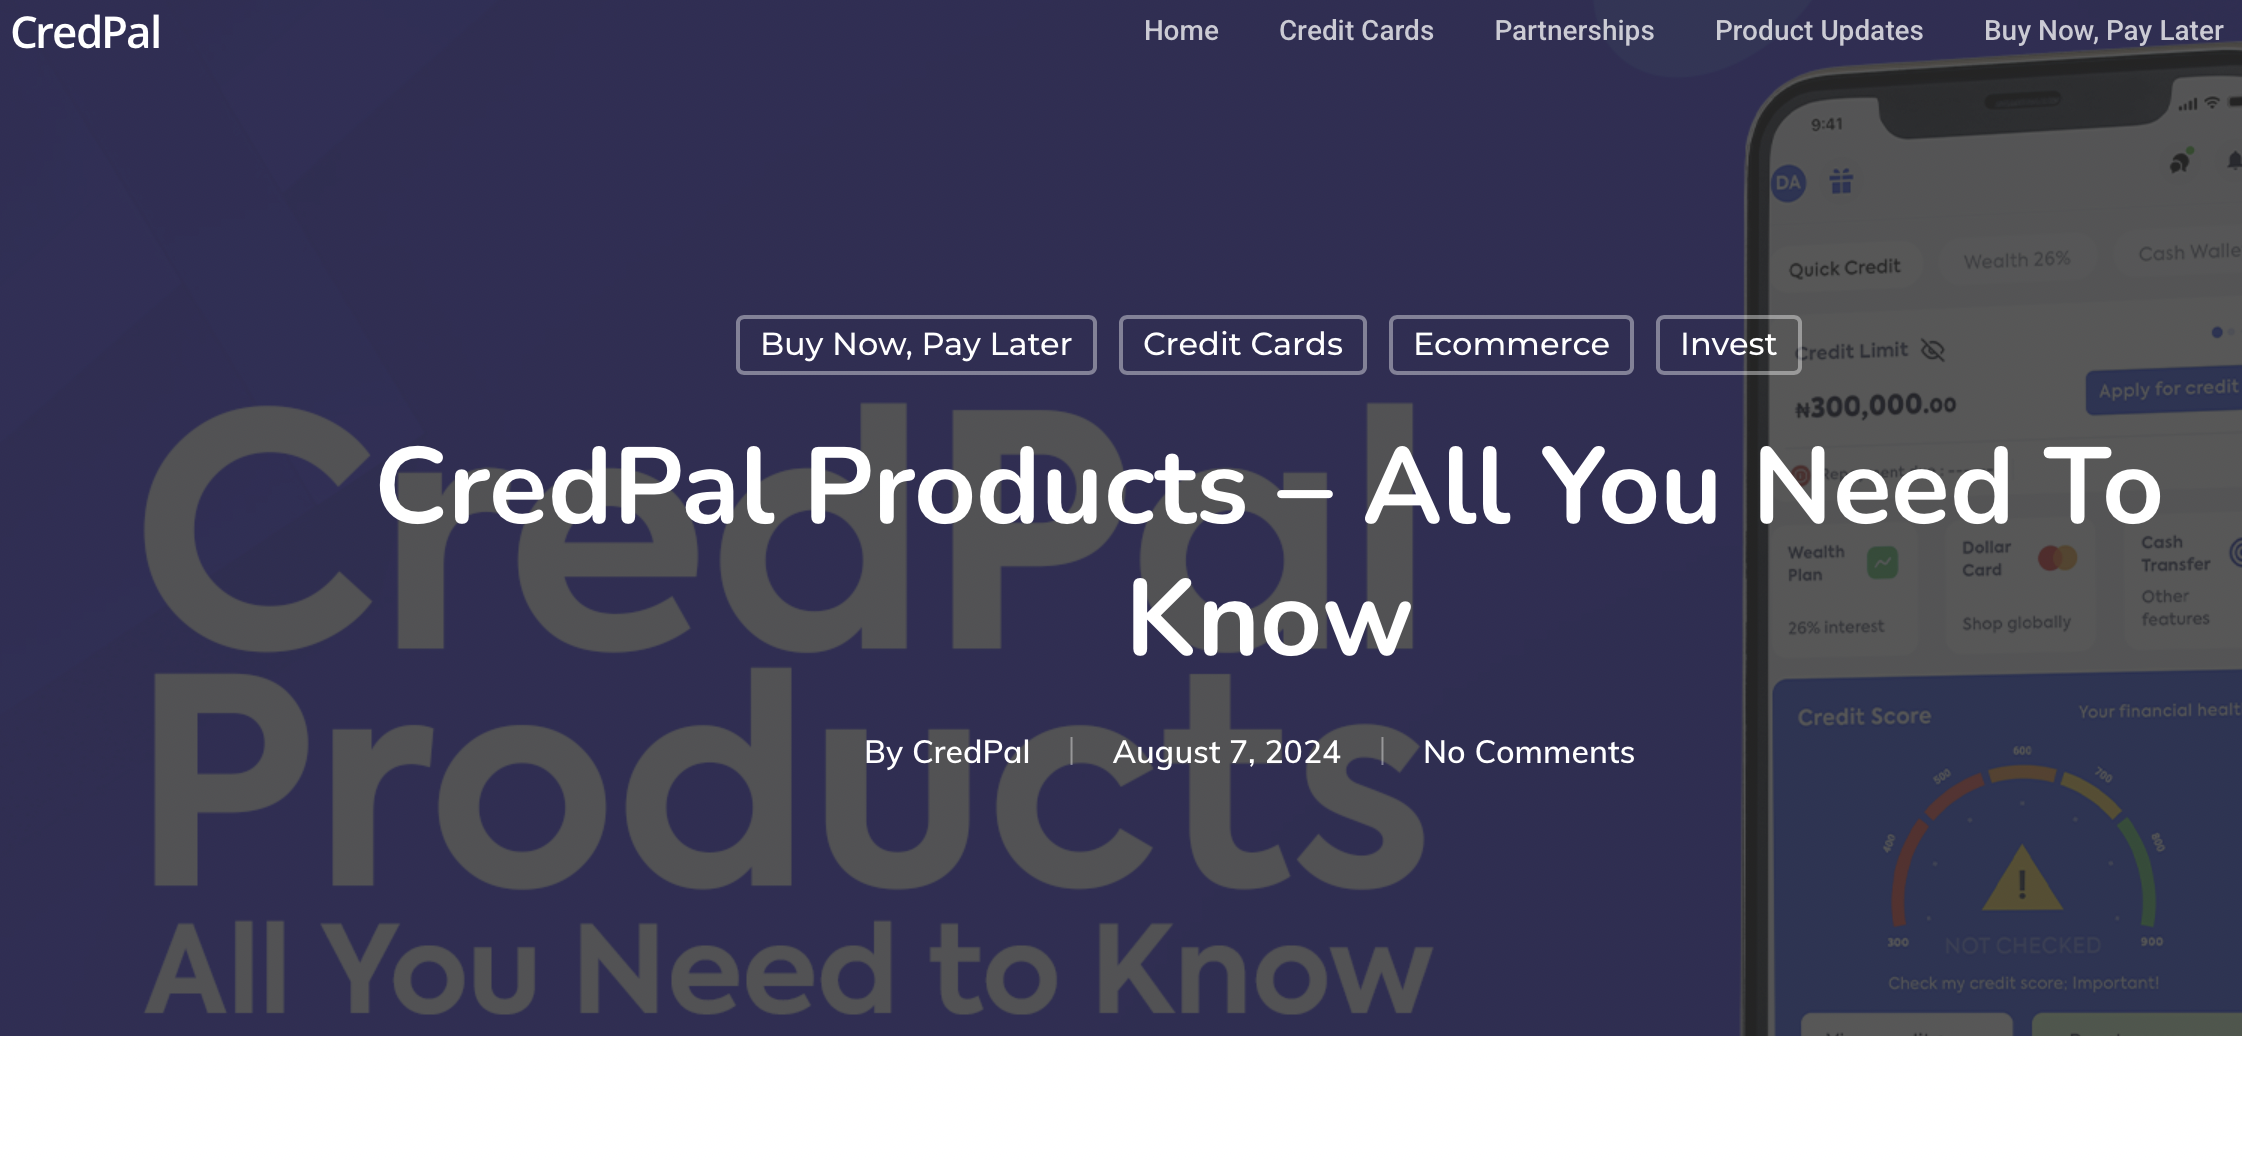
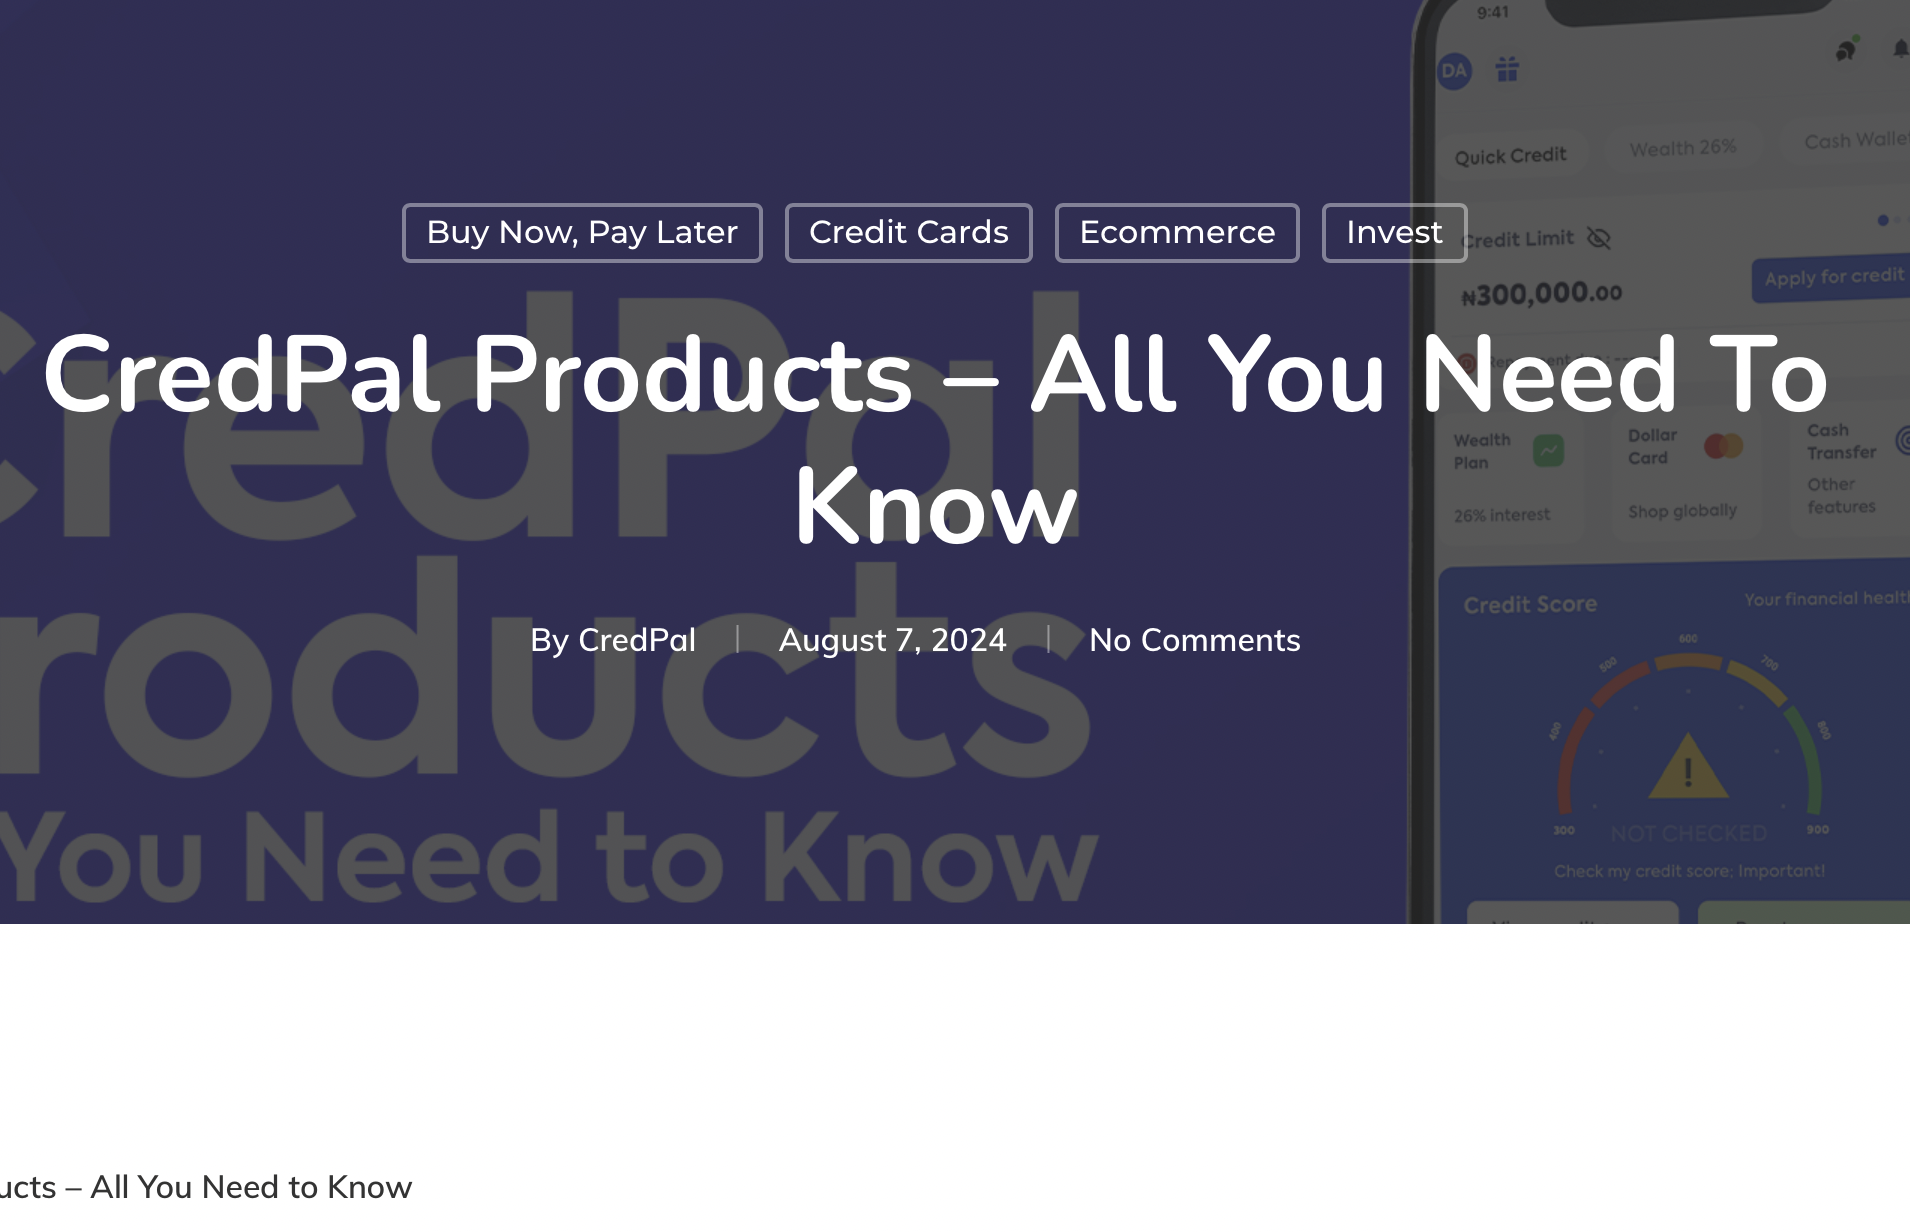
Fixed Padding

diff --git a/style.css b/style.css
@@ -8,7 +8,6 @@
   box-sizing: border-box;
 }
 
-/* Modern enhancements */
 body {
   font-family: 'Poppins', sans-serif;
   background: #fdf2f8;
@@ -35,41 +34,71 @@ html {
 
 /* Header/Hero Section */
 header {
-  min-height: 50vh;
+  min-height: 60vh;
   display: flex;
   align-items: center;
   justify-content: center;
   text-align: center;
   background: linear-gradient(135deg, #ec4899 0%, #f472b6 50%, #fbb6ce 100%);
   color: white;
+  position: relative;
+  overflow: hidden;
+}
+
+header::before {
+  content: '';
+  position: absolute;
+  top: -20%;
+  left: -20%;
+  width: 140%;
+  height: 140%;
+  background: radial-gradient(circle at center, rgba(255,255,255,0.1) 0%, transparent 70%);
+  z-index: 0;
+  animation: rotateBg 20s linear infinite;
+}
+
+@keyframes rotateBg {
+  0% { transform: rotate(0deg); }
+  100% { transform: rotate(360deg); }
+}
+
+.hero-content {
+  position: relative;
+  z-index: 1;
+  max-width: 900px;
+  padding: 0 20px;
 }
 
 .hero-content h1 {
-  font-size: 3.5rem;
+  font-size: 3rem;
   font-weight: 700;
   margin-bottom: 1rem;
-  text-shadow: 2px 2px 4px rgba(0,0,0,0.1);
+  text-shadow: 2px 2px 8px rgba(0,0,0,0.2);
+  font-family: 'Poppins', sans-serif;
 }
 
 .hero-content .subtitle {
   font-size: 1.3rem;
-  font-weight: 400;
+  font-weight: 500;
   margin-bottom: 1rem;
   opacity: 0.95;
 }
 
 .hero-content .tagline {
-  font-size: 1rem;
+  font-size: 1.1rem;
   margin-bottom: 2.5rem;
   opacity: 0.85;
   font-weight: 300;
+  max-width: 600px;
+  margin-left: auto;
+  margin-right: auto;
 }
 
 /* Social Links */
 .social-links {
   display: flex;
   justify-content: center;
-  gap: 1.2rem;
+  gap: 1.5rem;
   margin-bottom: 2.5rem;
 }
 
@@ -77,13 +106,13 @@ header {
   display: inline-flex;
   align-items: center;
   justify-content: center;
-  width: 45px;
-  height: 45px;
-  background: rgba(255, 255, 255, 0.2);
+  width: 50px;
+  height: 50px;
+  background: rgba(255, 255, 255, 0.15);
   border-radius: 50%;
   color: white;
   text-decoration: none;
-  font-size: 1.1rem;
+  font-size: 1.2rem;
   transition: all 0.3s ease;
   backdrop-filter: blur(10px);
 }
@@ -96,20 +125,20 @@ header {
 /* CTA Button */
 .cta-button {
   display: inline-block;
-  padding: 14px 30px;
+  padding: 16px 36px;
   background: white;
   color: #ec4899;
   text-decoration: none;
-  border-radius: 25px;
+  border-radius: 30px;
   font-weight: 600;
-  font-size: 1rem;
+  font-size: 1.1rem;
   transition: all 0.3s ease;
-  box-shadow: 0 4px 15px rgba(0,0,0,0.1);
+  box-shadow: 0 6px 20px rgba(0,0,0,0.1);
 }
 
 .cta-button:hover {
   transform: translateY(-2px);
-  box-shadow: 0 6px 20px rgba(0,0,0,0.15);
+  box-shadow: 0 8px 25px rgba(0,0,0,0.15);
 }
 
 /* Sections */
@@ -127,10 +156,9 @@ section {
   color: #ec4899;
   margin-bottom: 0.5rem;
   font-weight: 600;
-  align-items: center;
 }
 
-/* Skills Section - Stacked Layout */
+/* Skills Section */
 .skills-grid {
   display: flex;
   flex-direction: column;
@@ -142,13 +170,12 @@ section {
 .skill-card {
   background: white;
   border-radius: 25px;
-  padding: 3rem; /* bigger padding */
+  padding: 3rem;
   text-align: center;
   box-shadow: 0 12px 35px rgba(236, 72, 153, 0.12);
   transition: all 0.3s ease;
   border: 1px solid rgba(236, 72, 153, 0.15);
-  max-width: 100%; /* keep centered */
-  margin: 0 auto;   /* center in page */
+  width: 100%;
 }
 
 .skill-card:hover {
@@ -158,8 +185,7 @@ section {
 
 .skill-image {
   width: 100%;
-  /* max-width: 600px; */
-  height: 100%;
+  height: auto;
   margin: 0 auto 2rem;
   border-radius: 15px;
   overflow: hidden;
@@ -203,25 +229,10 @@ section {
 .skill-card p {
   color: #666;
   font-size: 1rem;
-  line-height: 1.;
-  max-width: 900px;
-  margin: 0 auto;
-}
-
-.skill-card h3 {
-  font-size: 1.2rem;
-  color: #333;
-  margin-bottom: 0.8rem;
-  font-weight: 600;
-}
-
-.skill-card p {
-  color: #666;
-  font-size: 0.9rem;
   line-height: 1.5;
 }
 
-/* Work Section - Stacked Layout */
+/* Work Section */
 .work-grid {
   display: flex;
   flex-direction: column;
@@ -231,12 +242,13 @@ section {
 }
 
 .work-card {
-  background: white;
-  border-radius: 20px;
-  overflow: hidden;
-  box-shadow: 0 10px 30px rgba(236, 72, 153, 0.1);
+   background: white;
+  border-radius: 25px;
+  padding: 3rem;
+  text-align: center;
+  box-shadow: 0 12px 35px rgba(236, 72, 153, 0.12);
   transition: all 0.3s ease;
-  border: 1px solid rgba(236, 72, 153, 0.1);
+  border: 1px solid rgba(236, 72, 153, 0.15);
   width: 100%;
 }
 
@@ -250,8 +262,9 @@ section {
   height: 350px;
   overflow: hidden;
   object-position: center;
-}
+    border-radius: 25px;
 
+}
 
 .work-screenshot {
   width: 100%;
@@ -284,7 +297,6 @@ section {
   max-width: 600px;
   margin-left: auto;
   margin-right: auto;
-  margin-bottom: 1.5rem;
 }
 
 .work-tools {
@@ -294,37 +306,17 @@ section {
   justify-content: center;
 }
 
-.work-info h4 {
-  font-size: 1.2rem;
-  color: #333;
-  margin-bottom: 0.6rem;
-  font-weight: 600;
-}
-
-.work-info p {
-  color: #666;
-  font-size: 0.9rem;
-  line-height: 1.5;
-  margin-bottom: 1rem;
-}
-
-.work-tools {
-  display: flex;
-  flex-wrap: wrap;
-  gap: 0.4rem;
-}
-
 /* Horizontal scroll for social media images */
 .horizontal-scroll {
   display: flex;
   gap: 2rem;
   overflow-x: auto;
-  white-space: nowrap; /* keeps items in one line */
+  white-space: nowrap;
   padding: 1rem 0.3rem;
   scroll-snap-type: x mandatory;
   scrollbar-width: thin; 
   min-height: 300px;
-  margin-top: 2rem
+  margin-top: 2rem;
 }
 
 .horizontal-scroll::-webkit-scrollbar {
@@ -337,12 +329,12 @@ section {
 }
 
 .horizontal-scroll img {
-  height: 300px;          /* fix height */
-  width: auto;            /* keep natural width */
+  height: 300px;
+  width: auto;
   border-radius: 15px;
-  display: inline-block;  /* line up horizontally */
+  display: inline-block;
   scroll-snap-align: start;
-  object-fit: cover;      /* keeps proportions */
+  object-fit: cover;
   flex-shrink: 0;
   box-shadow: 0 4px 12px rgba(236, 72, 153, 0.2);
   transition: transform 0.3s ease;
@@ -350,7 +342,7 @@ section {
 
 .horizontal-scroll img:hover {
   transform: scale(1.1);
-  z-index: 10;           /* ensures it appears above neighboring images */
+  z-index: 10;
 }
 
 .tool-tag {
@@ -362,7 +354,7 @@ section {
   font-weight: 500;
 }
 
-/* Tools Section - Simplified */
+/* Tools Section */
 .tools-container {
   background: white;
   border-radius: 20px;
@@ -373,7 +365,7 @@ section {
 
 .tools-grid {
   display: grid;
-  grid-template-columns: repeat(auto-fit, minmax(200px, 1fr));
+  grid-template-columns: repeat(auto-fit, minmax(180px, 1fr));
   gap: 1.5rem;
   max-width: 600px;
   margin: 0 auto;
@@ -382,15 +374,14 @@ section {
 .tool-item {
   background: linear-gradient(135deg, #ec4899, #f472b6);
   color: white;
-  padding: 2.5rem 2rem;
+  padding: 2rem;
   border-radius: 18px;
   text-align: center;
   font-weight: 600;
-  font-size: 1.2rem;
+  font-size: 1.1rem;
   transition: all 0.3s ease;
   box-shadow: 0 8px 25px rgba(236, 72, 153, 0.2);
 }
-
 
 .tool-item:hover {
   transform: translateY(-5px);
@@ -402,8 +393,7 @@ footer {
   background: linear-gradient(135deg, #ec4899, #f472b6);
   color: white;
   text-align: center;
-  padding: 2.5rem 0;
-  margin-top: 2rem;
+  padding: 3rem 0;
 }
 
 .footer-content {
@@ -433,6 +423,7 @@ footer {
 .footer-text {
   font-size: 0.9rem;
   opacity: 0.8;
+  margin-top: 1rem;
 }
 
 /* Responsive Design */
@@ -465,5 +456,9 @@ footer {
   
   .tools-container {
     padding: 2rem;
+  }
+  
+  .horizontal-scroll img {
+    height: 200px;
   }
 }

diff --git a/index.html b/index.html
@@ -189,7 +189,7 @@
                     <div class="tool-item">Substack</div>
                     <div class="tool-item">Google Analytics</div>
                     <div class="tool-item">WordPress</div>
-                    <div class="tool-item">Yoast SEO</div>
+                    <div class="tool-item">Yoast</div>
                     <div class="tool-item">Capcut</div>
                     <div class="tool-item">Tiktok Studio</div>
                     <div class="tool-item">Canva</div>
